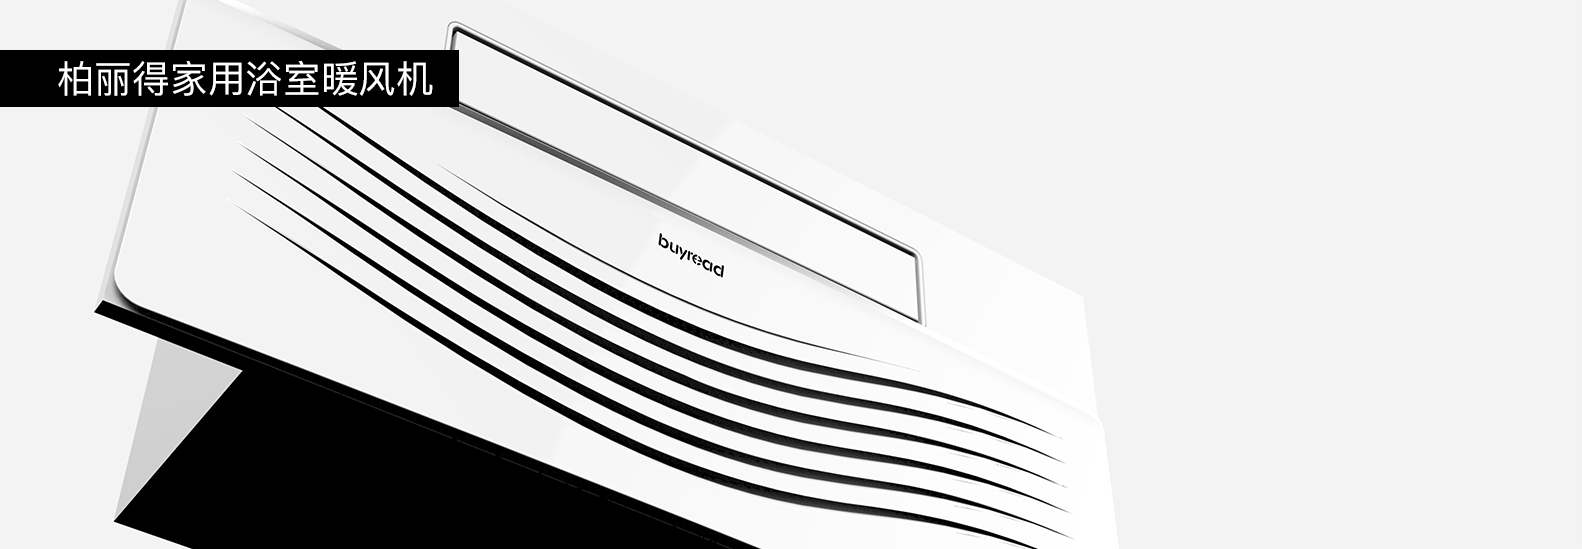
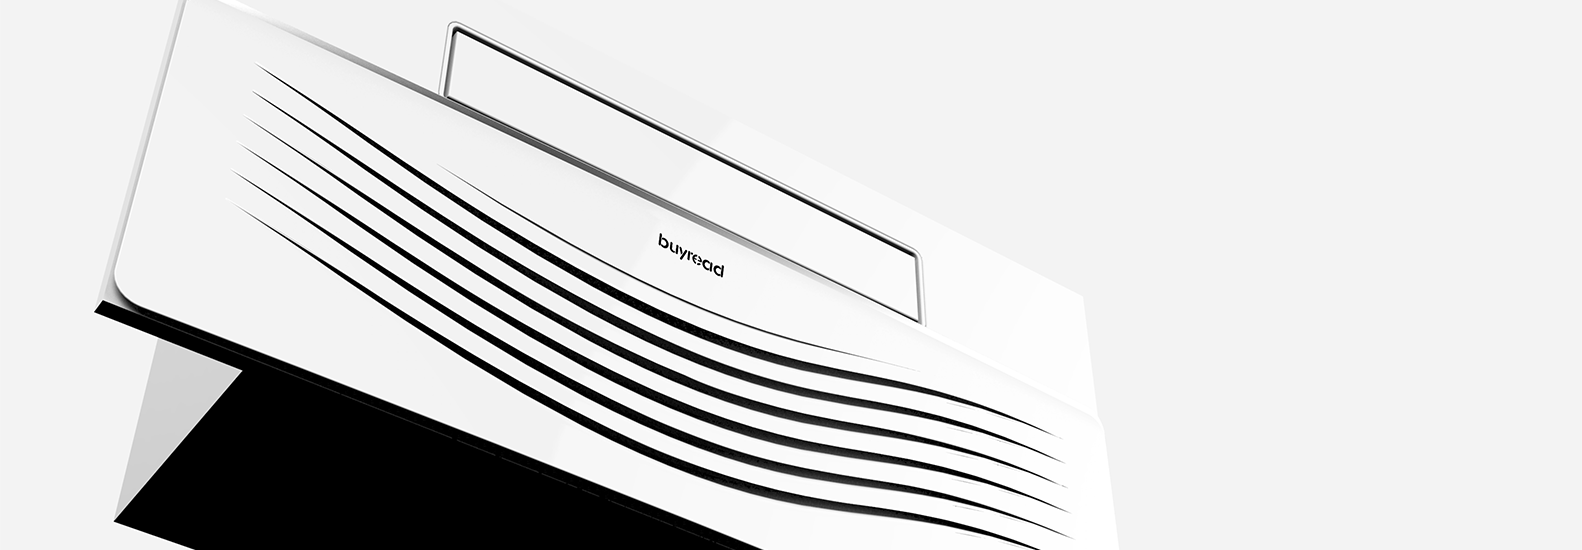
20161212
20161212

diff --git a/css/css.css b/css/css.css
@@ -87,13 +87,14 @@ em,i{font-style:normal}
 #work-case .case .desc{display:none;width: 100%;height: 100%;background: rgba(0, 143, 108, 0.8);position: absolute;top:0;padding: 10px 40px;color: #fff;font-size: 30px}
 #work-case .case.on{opacity: 1;margin-top: 0}
 
-#detail{margin:0 auto;width: 1590px;margin-top:15px;background: #008f6c;color: #fff}
-#detail .show_img{width: 1590px;float: left}
+#detail{position:relative;margin:0 auto;width: 1590px;margin-top:15px;background: #008f6c;color: #fff}
+#detail .show_img{width: 1590px;float: left;height: 550px}
 #detail .thumb{margin-left:275px;margin-top:25px;width: 980px;float: left}
 #detail .thumb li{float:left;margin-right:10px;cursor:pointer}
 #detail .thumb li img{width: 80px;height: 80px;border: 2px solid #000}
 #detail .thumb li.liang img{border: 2px solid #fff}
 #detail .content{margin-bottom:80px;margin-top:40px;margin-left:275px;width: 980px;float: left;font-size:16px;line-height: 150% }
+#detail .title{position: absolute;background: #000;line-height: 55px;font-size: 35px;margin-top:50px;padding-left: 60px;padding-right: 25px}
 
 .service_message{text-align:right;font-weight:bold;width: 1590px;margin: 0 auto;line-height: 200px;font-size: 80px;color: #000}
 .service_item{padding:90px 0;width: 1590px;height: 175px;background: #000;margin:0 auto;margin-bottom: 10px;color: #fff;font-size: 80px}

diff --git a/index.html b/index.html
@@ -11,7 +11,7 @@
 <body>  
     <div id="nav">
         <a href='index.html'><img src="images/logo.png" class="logo" /></a>
-        <img src="images/ext.png" class="ext" />
+        <!-- <img src="images/ext.png" class="ext" /> -->
         <ul class="menu">
             <li><a href='work.html'>Work</a></li>
             <li><a href='services.html'>Services</a></li>
@@ -37,7 +37,7 @@
     <div id="index-case">
         <a href="detail.html">
             <div class="case">
-                <img src="images/index1.png" />
+                <img src="images/index1.png" height="591" width="1050"/>
                 <div class="desc">家用净水器</div>
             </div>
         </a>
@@ -62,7 +62,7 @@
             <div class="desc">家用净水器</div>
         </div>
         <div class="case">
-            <img src="images/index9.png" />
+            <img src="images/index9.png" width="1050" height="591" />
             <div class="desc">家用净水器</div>
         </div>
         <div class="case">

diff --git a/detail.html b/detail.html
@@ -11,7 +11,7 @@
 <body>  
     <div id="nav" style="position:static">
         <a href='index.html'><img src="images/logo.png" class="logo" /></a>
-        <img src="images/ext.png" class="ext" />
+        <!-- <img src="images/ext.png" class="ext" /> -->
         <ul class="menu">
             <li><a href='work.html'>Work</a></li>
             <li><a href='services.html'>Services</a></li>
@@ -21,6 +21,7 @@
     </div>
     <div id="detail">
         <img src="" class="show_img" />
+        <div class="title">柏丽得家用浴室暖风机</div>
         <ul class="thumb">
             <li class="liang"><img src="images/detail/thumb.png" data-img="images/detail/index.png"/></li>
             <li><img src="images/detail/thumb.png" data-img="images/banner5.png" /></li>

diff --git a/js/js.js b/js/js.js
@@ -1,4 +1,5 @@
 $(document).ready(function(){
+    // alert($(window).width());
     function showCase(obj){
         var w_height = $(window).height();
         $(obj+" .case").each(function(index){
@@ -68,7 +69,7 @@ $(document).ready(function(){
 
     $(".thumb li").click(function(){
         $(".thumb li").removeClass('liang');
-        $(this).removeClass('liang');
+        $(this).addClass('liang');
         $(".show_img").attr('src', $(this).find('img').attr('data-img'));
     });
 

diff --git a/about.html b/about.html
@@ -11,7 +11,7 @@
 <body>  
     <div id="nav">
         <a href='index.html'><img src="images/logo.png" class="logo" /></a>
-        <img src="images/ext.png" class="ext" />
+        <!-- <img src="images/ext.png" class="ext" /> -->
         <ul class="menu">
             <li><a href='work.html'>Work</a></li>
             <li><a href='services.html'>Services</a></li>

diff --git a/connect.html b/connect.html
@@ -11,7 +11,7 @@
 <body>  
     <div id="nav">
         <a href='index.html'><img src="images/logo.png" class="logo" /></a>
-        <img src="images/ext.png" class="ext" />
+        <!-- <img src="images/ext.png" class="ext" /> -->
         <ul class="menu">
             <li><a href='work.html'>Work</a></li>
             <li><a href='services.html'>Services</a></li>

diff --git a/services.html b/services.html
@@ -11,7 +11,7 @@
 <body>  
     <div id="nav">
         <a href='index.html'><img src="images/logo.png" class="logo" /></a>
-        <img src="images/ext.png" class="ext" />
+        <!-- <img src="images/ext.png" class="ext" /> -->
         <ul class="menu">
             <li><a href='work.html'>Work</a></li>
             <li><a href='services.html'>Services</a></li>

diff --git a/work.html b/work.html
@@ -11,7 +11,7 @@
 <body>  
     <div id="nav">
         <a href='index.html'><img src="images/logo.png" class="logo" /></a>
-        <img src="images/ext.png" class="ext" />
+        <!-- <img src="images/ext.png" class="ext" /> -->
         <ul class="menu">
             <li><a href='work.html'>Work</a></li>
             <li><a href='services.html'>Services</a></li>
